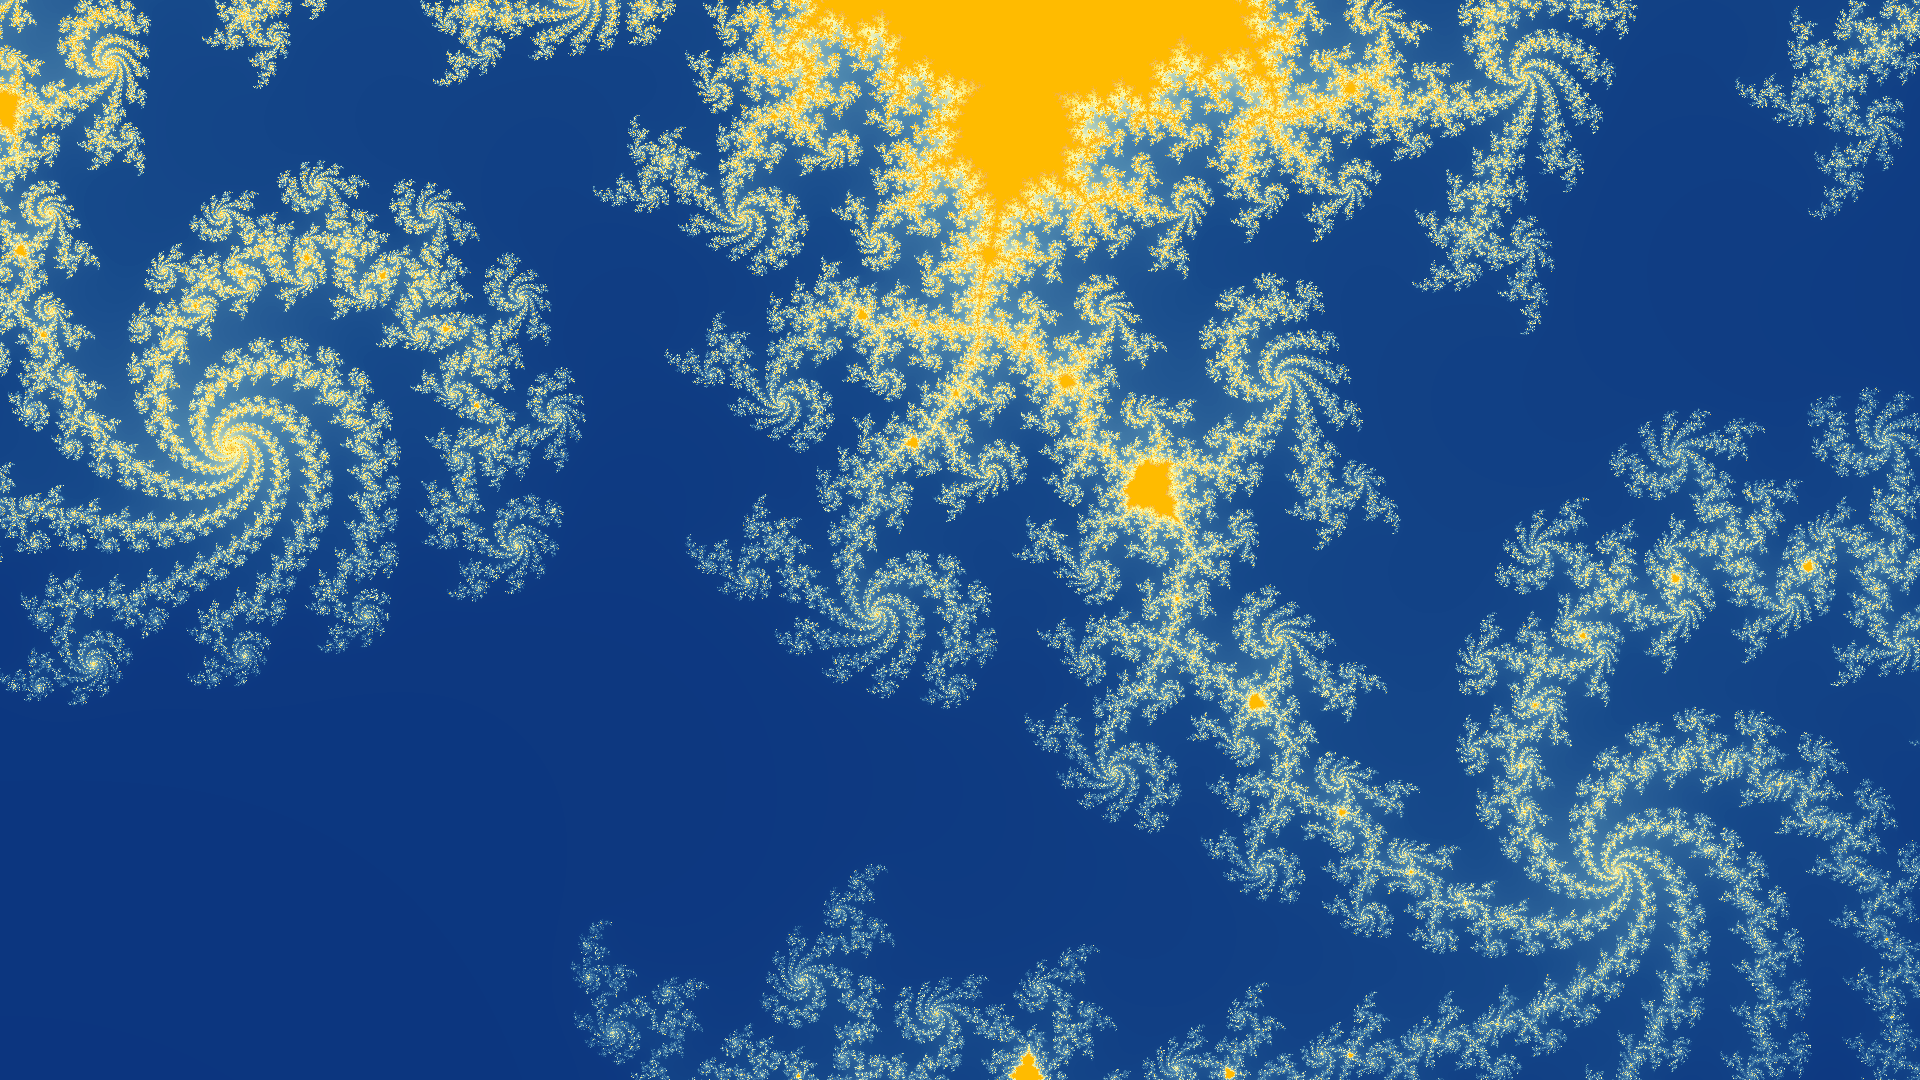
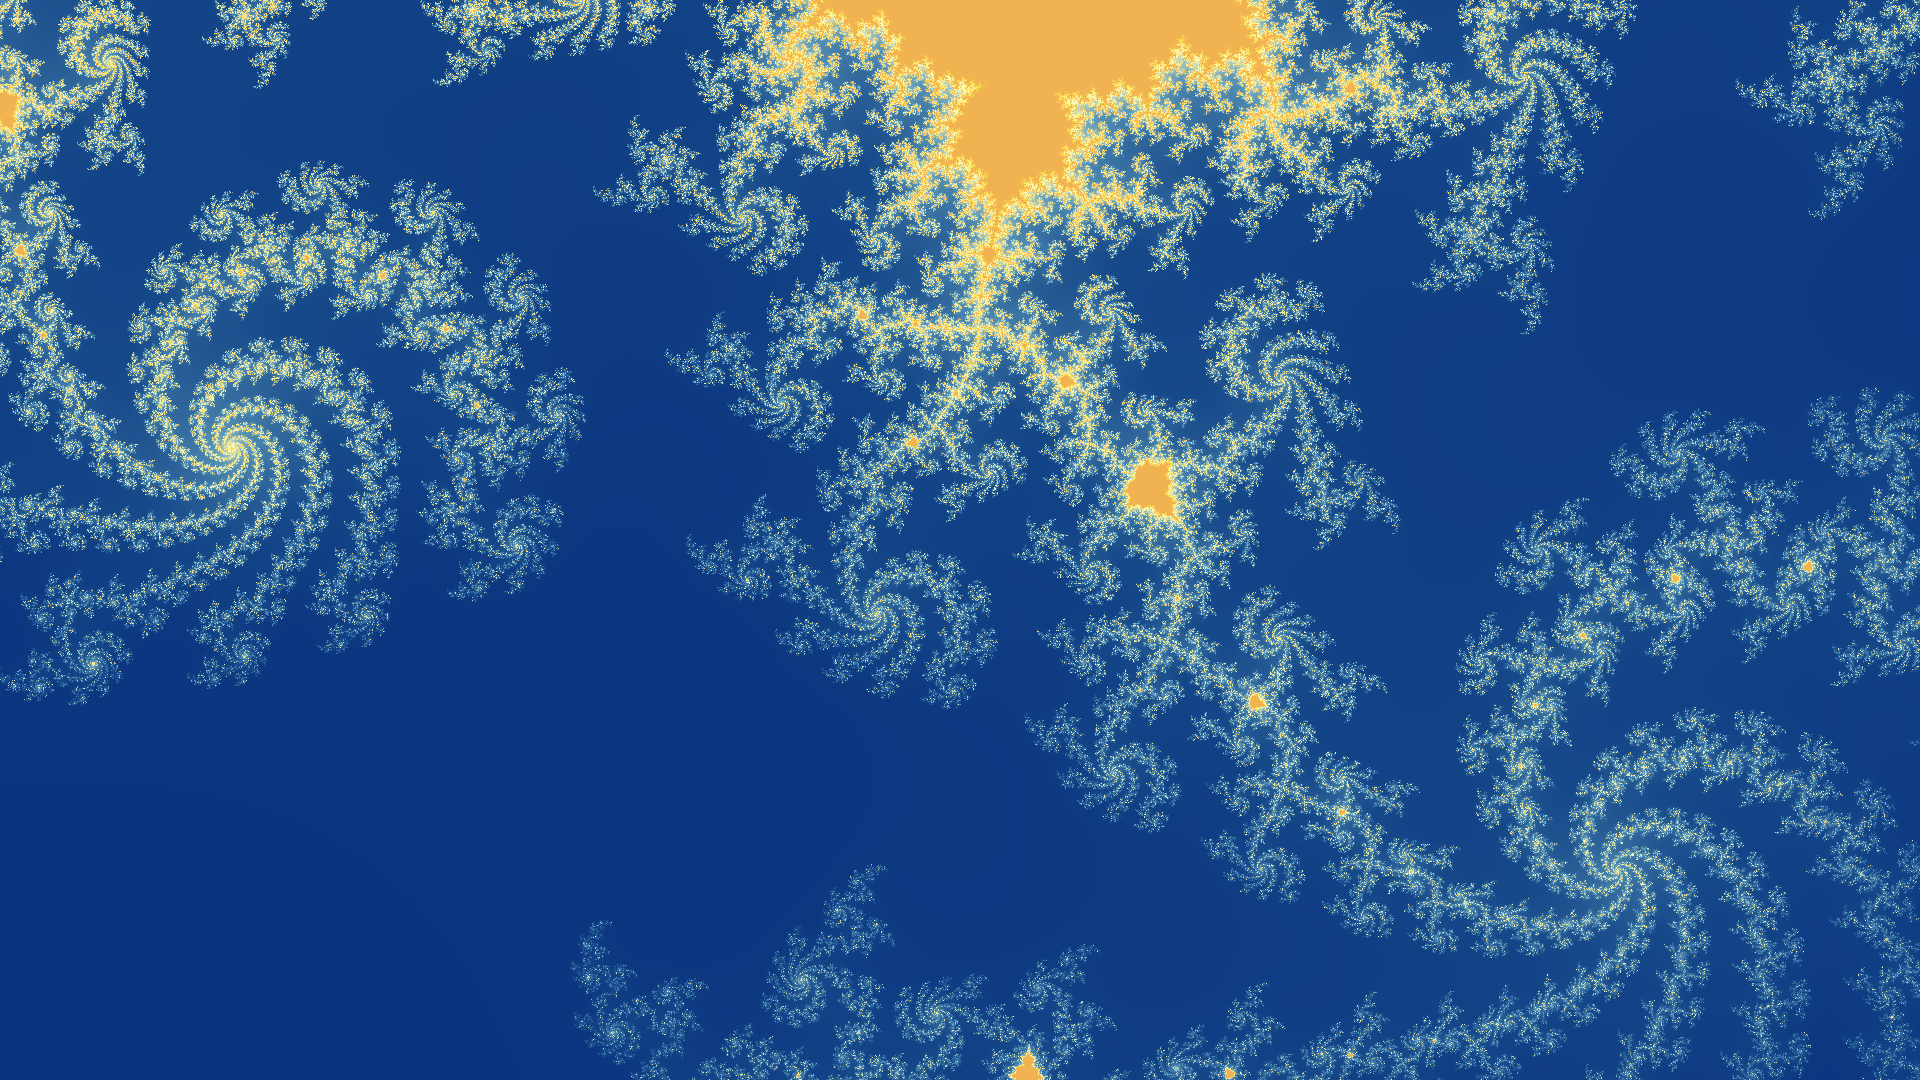
Added super sampling chapter

diff --git a/chapters/8-Super_Sampling/src/colour.rs b/chapters/8-Super_Sampling/src/colour.rs
@@ -1,0 +1,72 @@
+//! Data to colour mapping.
+
+use image::RgbImage;
+use ndarray::{arr1, s, Array2, Array3};
+use palette::{Gradient, LinSrgb, Pixel};
+
+/// Convert a hex colour string to an RGB tuple.
+fn hex_to_rgb(hex: &str) -> (f32, f32, f32) {
+    let hex = hex.trim_start_matches('#');
+
+    let hex_val: u32 = (u32::from_str_radix(hex, 16).ok()).unwrap();
+
+    let red = ((hex_val >> 16) & 0xFF) as f32 / 255.0;
+    let green = ((hex_val >> 8) & 0xFF) as f32 / 255.0;
+    let blue = (hex_val & 0xFF) as f32 / 255.0;
+
+    (red, green, blue)
+}
+
+/// Convert a 2D array of integers to an RGB image array.
+pub fn image(data: Array2<u16>, cols: Vec<&str>, max_iter: u16) -> Array3<u8> {
+    let cs: Vec<_> = cols
+        .iter()
+        .map(|col| {
+            let (r, g, b) = hex_to_rgb(col);
+            LinSrgb::new(r, g, b)
+        })
+        .collect();
+    let cmap: Gradient<LinSrgb> = Gradient::new(cs);
+
+    let mut cols = Array3::<u8>::zeros((data.shape()[0], data.shape()[1], 3));
+    let max_inv = 1.0 / max_iter as f32;
+    let (width, height) = data.dim();
+    for yi in 0..height {
+        for xi in 0..width {
+            let col = cmap.get(data[(xi, yi)] as f32 * max_inv);
+            let u8s: [u8; 3] = col.into_format().into_raw();
+            cols.slice_mut(s![xi, yi, ..]).assign(&arr1(&u8s));
+        }
+    }
+
+    cols
+}
+
+/// Encode an RGB image array as an image.
+pub fn encode(arr: &Array3<u8>) -> RgbImage {
+    let img = transpose(&arr);
+    let (width, height, _) = img.dim();
+
+    RgbImage::from_vec(
+        height as u32,
+        width as u32,
+        img.view().as_slice().unwrap().to_vec(),
+    )
+    .expect("Container should have the right size for the image dimensions.")
+}
+
+/// Transpose an RGB image array, fipping it along the diagonal.
+pub fn transpose(arr: &Array3<u8>) -> Array3<u8> {
+    let (width, height, _) = arr.dim();
+    let mut buffer = Array3::zeros((height, width, 3));
+
+    for n in 0..(width * height) {
+        let xi = n % width;
+        let yi = n / width;
+        buffer
+            .slice_mut(s![yi, xi, ..])
+            .assign(&arr.slice(s![xi, yi, ..]));
+    }
+
+    buffer
+}

diff --git a/chapters/8-Super_Sampling/src/sample.rs b/chapters/8-Super_Sampling/src/sample.rs
@@ -1,0 +1,73 @@
+//! Sample the Mandelbrot set.
+
+use indicatif::ProgressBar;
+use ndarray::Array2;
+
+/// Determine the number of iterations required to escape a
+/// circle of radius 2.0 from a given initial complex point.
+pub fn point(real: f64, imag: f64, max_iters: u16) -> u16 {
+    let mut z_re = 0.0;
+    let mut z_im = 0.0;
+
+    let mut i = 0;
+    while (((z_re * z_re) + (z_im * z_im)) < 4.0) && (i < max_iters) {
+        let new_re = (z_re * z_re) - (z_im * z_im) + real;
+        let new_im = (2.0 * z_re * z_im) + imag;
+        z_re = new_re;
+        z_im = new_im;
+        i += 1;
+    }
+
+    i as u16
+}
+
+/// Sample a region of the Mandelbrot set.
+pub fn area(
+    real: f64,
+    imag: f64,
+    scale: f64,
+    res: [usize; 2],
+    max_iters: u16,
+    ss_power: u8,
+) -> Array2<u16> {
+    let mut data = Array2::zeros((res[0], res[1]));
+
+    let aspect_ratio = res[0] as f64 / res[1] as f64;
+    let real_start = real - (scale * 0.5);
+    let imag_start = imag - (scale / aspect_ratio * 0.5);
+
+    let delta = scale / (res[0] - 1).max(1) as f64;
+
+    let total_pixels = (res[0] * res[1]) as usize;
+    let pb = ProgressBar::new(total_pixels as u64);
+    for n in 0..total_pixels {
+        let xi = n % res[0];
+        let yi = n / res[0];
+
+        let imag = imag_start + (delta * yi as f64);
+        let real = real_start + (delta * xi as f64);
+        data[(xi, yi)] = super_sample(real, imag, max_iters, delta, ss_power);
+
+        pb.inc(1);
+    }
+
+    data
+}
+
+/// Sample a small square region of the mandelbrot set and
+/// return the average number of iterations required to escape a circle of radius 2.0.
+fn super_sample(real: f64, imag: f64, max_iters: u16, delta: f64, ss_power: u8) -> u16 {
+    let mut sum = 0;
+    let epsilon = delta / ss_power as f64;
+
+    let total_samples = ss_power * ss_power;
+    for n in 0..total_samples {
+        let i = n % ss_power;
+        let j = n / ss_power;
+
+        let re = real + (epsilon * i as f64);
+        let im = imag + (epsilon * j as f64);
+        sum += point(re, im, max_iters);
+    }
+    sum / total_samples as u16
+}

diff --git a/chapters/8-Super_Sampling/src/bin/main.rs b/chapters/8-Super_Sampling/src/bin/main.rs
@@ -1,0 +1,56 @@
+use clap::Parser;
+use std::{fs::create_dir, path::Path};
+
+use mandy::{colour, sample};
+
+#[derive(Parser, Debug)]
+#[command(author, version, about, long_about = None)]
+struct Args {
+    #[arg(short, long)]
+    real: f64,
+
+    #[arg(short, long)]
+    imag: f64,
+
+    #[arg(short, long)]
+    scale: f64,
+
+    #[arg(short, long, default_value = "100")]
+    max_iters: u16,
+
+    #[arg(short, long, default_value = "1")]
+    ss_power: u8,
+
+    #[arg(short, long, default_value = "1920")]
+    width: usize,
+
+    #[arg(short, long, default_value = "1080")]
+    height: usize,
+
+    #[clap(short, long, value_parser, num_args = 2.., value_delimiter = ' ')]
+    cmap: Vec<String>,
+}
+
+/// Entry point function.
+fn main() {
+    let args = Args::parse();
+    let cmap: Vec<&str> = args.cmap.iter().map(|s| s.as_str()).collect();
+
+    let output_dir = Path::new("output");
+    if !output_dir.exists() {
+        create_dir("output").unwrap();
+    }
+
+    let data = sample::area(
+        args.real,
+        args.imag,
+        args.scale,
+        [args.width, args.height],
+        args.max_iters,
+        args.ss_power,
+    );
+    let img = colour::image(data, cmap, args.max_iters);
+    colour::encode(&img)
+        .save(output_dir.join("mandy.png"))
+        .unwrap();
+}

diff --git a/chapters/8-Super_Sampling/src/lib.rs b/chapters/8-Super_Sampling/src/lib.rs
@@ -1,0 +1,13 @@
+pub mod colour;
+pub mod sample;
+
+#[cfg(test)]
+mod tests {
+    use super::*;
+
+    #[test]
+    fn test_samples() {
+        let result = sample::point(-0.5, 0.0, 1000);
+        assert_eq!(result, 1000);
+    }
+}

diff --git a/chapters/8-Super_Sampling/README.md b/chapters/8-Super_Sampling/README.md
@@ -1,0 +1,108 @@
+# Super Sampling
+
+Our image gets jagged edges in locations near the boundary, as the number of iterations required can vary wildly over a very small length scale.
+We can mitigate this by sampling multiple points in each pixel and taking the average of the results.
+
+## Sample
+
+Add the following code to [`sample.rs`](./src/sample.rs):
+
+```rust
+/// Sample a small square region of the mandelbrot set and
+/// return the average number of iterations required to escape a circle of radius 2.0.
+fn super_sample(real: f64, imag: f64, max_iters: u16, delta: f64, ss_power: u8) -> u16 {
+    let mut sum = 0;
+    let epsilon = delta / ss_power as f64;
+
+    let total_samples = ss_power * ss_power;
+    for n in 0..total_samples {
+        let i = n % ss_power;
+        let j = n / ss_power;
+
+        let re = real + (epsilon * i as f64);
+        let im = imag + (epsilon * j as f64);
+        sum += point(re, im, max_iters);
+    }
+    sum / total_samples as u16
+}
+```
+
+And update the `area` function so that it takes an additional `power` argument, and calls `super_sample` instead of `point`:
+
+```rust
+/// Sample a region of the Mandelbrot set.
+pub fn area(
+    real: f64,
+    imag: f64,
+    scale: f64,
+    res: [usize; 2],
+    max_iters: u16,
+    ss_power: u8,
+) -> Array2<u16> {
+    let mut data = Array2::zeros((res[0], res[1]));
+
+    let aspect_ratio = res[0] as f64 / res[1] as f64;
+    let real_start = real - (scale * 0.5);
+    let imag_start = imag - (scale / aspect_ratio * 0.5);
+
+    let delta = scale / (res[0] - 1).max(1) as f64;
+
+    let total_pixels = (res[0] * res[1]) as usize;
+    let pb = ProgressBar::new(total_pixels as u64);
+    for n in 0..total_pixels {
+        let xi = n % res[0];
+        let yi = n / res[0];
+
+        let imag = imag_start + (delta * yi as f64);
+        let real = real_start + (delta * xi as f64);
+        data[(xi, yi)] = super_sample(real, imag, max_iters, delta, ss_power);
+
+        pb.inc(1);
+    }
+
+    data
+}
+```
+
+## Main
+
+Update the `Args` structure in [main.rs](./src/bin/main.rs) so that it includes a `ss_power` argument:
+
+```rust
+...
+    #[arg(short, long, default_value = "1")]
+    ss_power: u8,
+...
+```
+
+Which we'll then pass to the `area` function in `main`:
+
+```rust
+...
+    let data = sample::area(
+        args.real,
+        args.imag,
+        args.scale,
+        [args.width, args.height],
+        args.max_iters,
+        args.ss_power,
+    );
+...
+```
+
+## Try it
+
+Then run the program with the following command:
+
+```shell
+cargo run --bin main --release -- --real 0.399 --imag 0.235 --scale 2.0e-2 --max-iters 400 --ss-power 3 --width 1920 --height 1080 --cmap 062B79 16498A 5995B7 FAFBBD FDE050 F1B351 FFBB00 FFFFFF
+```
+
+You should see a progress bar as the plot is rendered.
+When it finishes, you should see an image like the following:
+
+![Mandelbrot set](./output/mandy.png)
+
+## Return
+
+[Return to the top-level README](./../../README.md)

diff --git a/chapters/7-Progress_Bar/README.md b/chapters/7-Progress_Bar/README.md
@@ -44,12 +44,12 @@ pub fn area(real: f64, imag: f64, scale: f64, res: [usize; 2], max_iters: u16) -
 }
 ```
 
-## Try it out
+## Try it
 
 Then run the program with the following command:
 
 ```shell
-cargo run --bin main --release -- --real 0.39 --imag 0.235 --scale 1.0e-2 --max-iters 400 --width 1920 --height 1080 --cmap 062B79 16498A 5995B7 FAFBBD FDE050 F1B351 FFBB00
+cargo run --bin main --release -- --real 0.39 --imag 0.235 --scale 1.0e-2 --max-iters 400 --width 1920 --height 1080 --cmap 062B79 16498A 5995B7 FAFBBD FDE050 F1B351
 ```
 
 You should see a progress bar as the plot is rendered.
